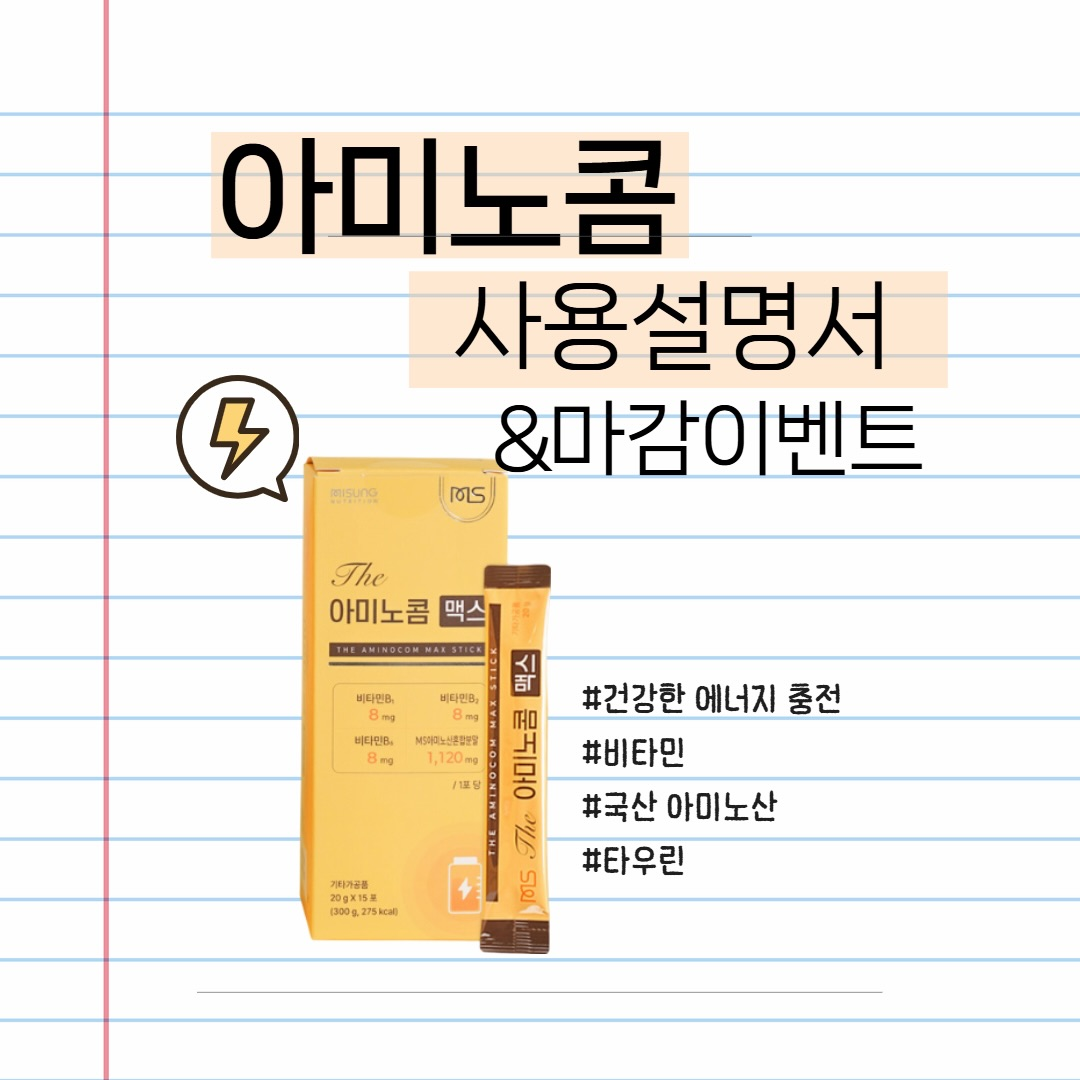
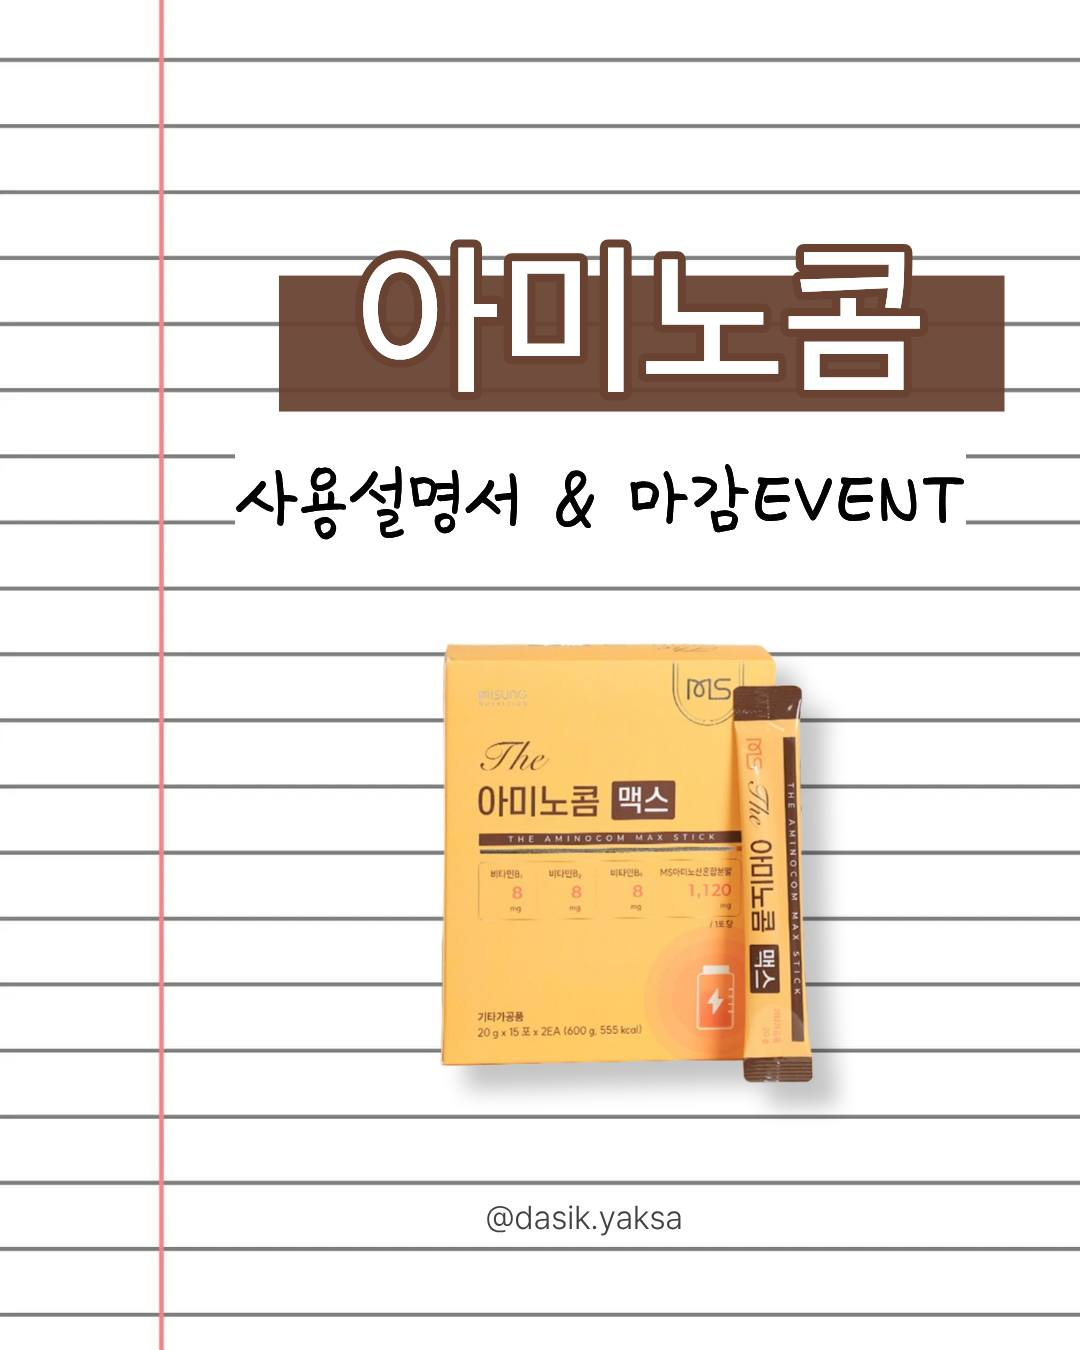
[자동] 아미노콤 마감이벤트 링크·썸네일 업데이트

diff --git a/data.js b/data.js
@@ -397,7 +397,7 @@ const DATA = {
         { name: "디오스민",  tags: ["디오스민", "붓기", "혈관"],   thumbnail: "images/products/prod_diosmin.jpg",   link: "https://www.instagram.com/p/DXy11pIj6Z4/" },
         { name: "루아빌",    tags: ["루테인", "아스타잔틴", "눈"], thumbnail: "images/products/prod_luabill.jpg",   link: "https://www.instagram.com/p/DWVE1g_D2F8/" },
         { name: "이노시톨",  tags: ["PCOS", "호르몬", "여성"],     thumbnail: "images/products/prod_inositol.jpg",  link: "https://www.instagram.com/p/DYqXWxciEL8/" },
-        { name: "아미노콤",  tags: ["아미노산", "근육", "운동"],   thumbnail: "images/products/prod_aminocom.jpg",  link: "https://www.instagram.com/p/DVqPezADyrE/" },
+        { name: "아미노콤",  tags: ["아미노산", "근육", "운동"],   thumbnail: "images/products/prod_aminocom.jpg",  link: "https://www.instagram.com/p/DZlnrtimLHW/" },
         { name: "멜라코지",  tags: ["멜라토닌", "수면"],           thumbnail: "images/products/prod_melacozy.jpg",  link: "https://www.instagram.com/p/DSmiqUMj8XX/" },
         { name: "베르베린",  tags: ["혈당", "다이어트", "인슐린"], thumbnail: "images/products/prod_berberin.jpg",  link: "https://www.instagram.com/p/DXjpo8aD5Ws/" },
         { name: "보라물",    tags: ["안토시아닌", "눈건강"],       thumbnail: "images/products/prod_borawater.jpg", link: "https://www.instagram.com/p/DVnAFGhD6jD/" },